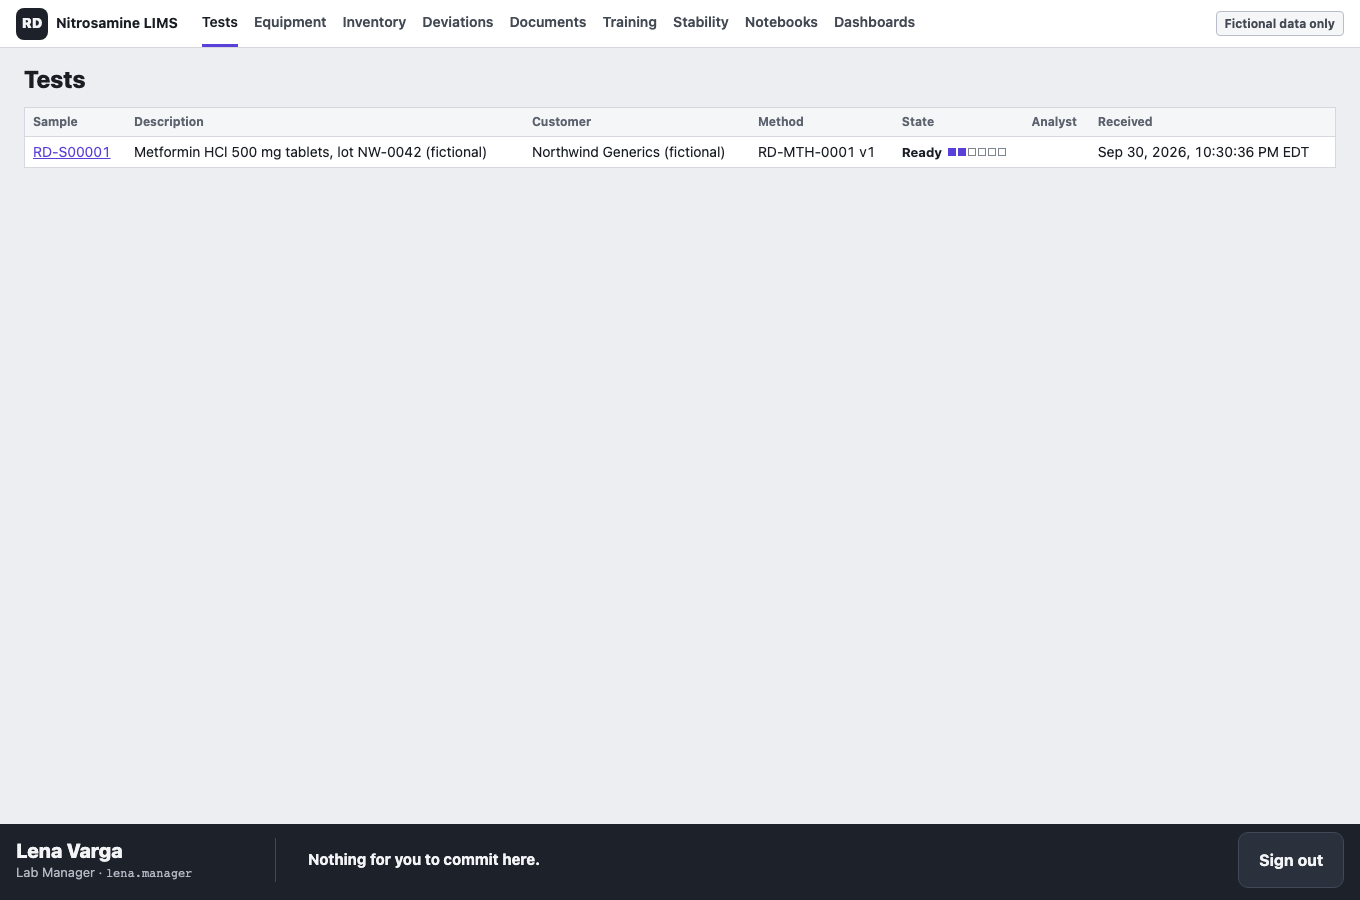
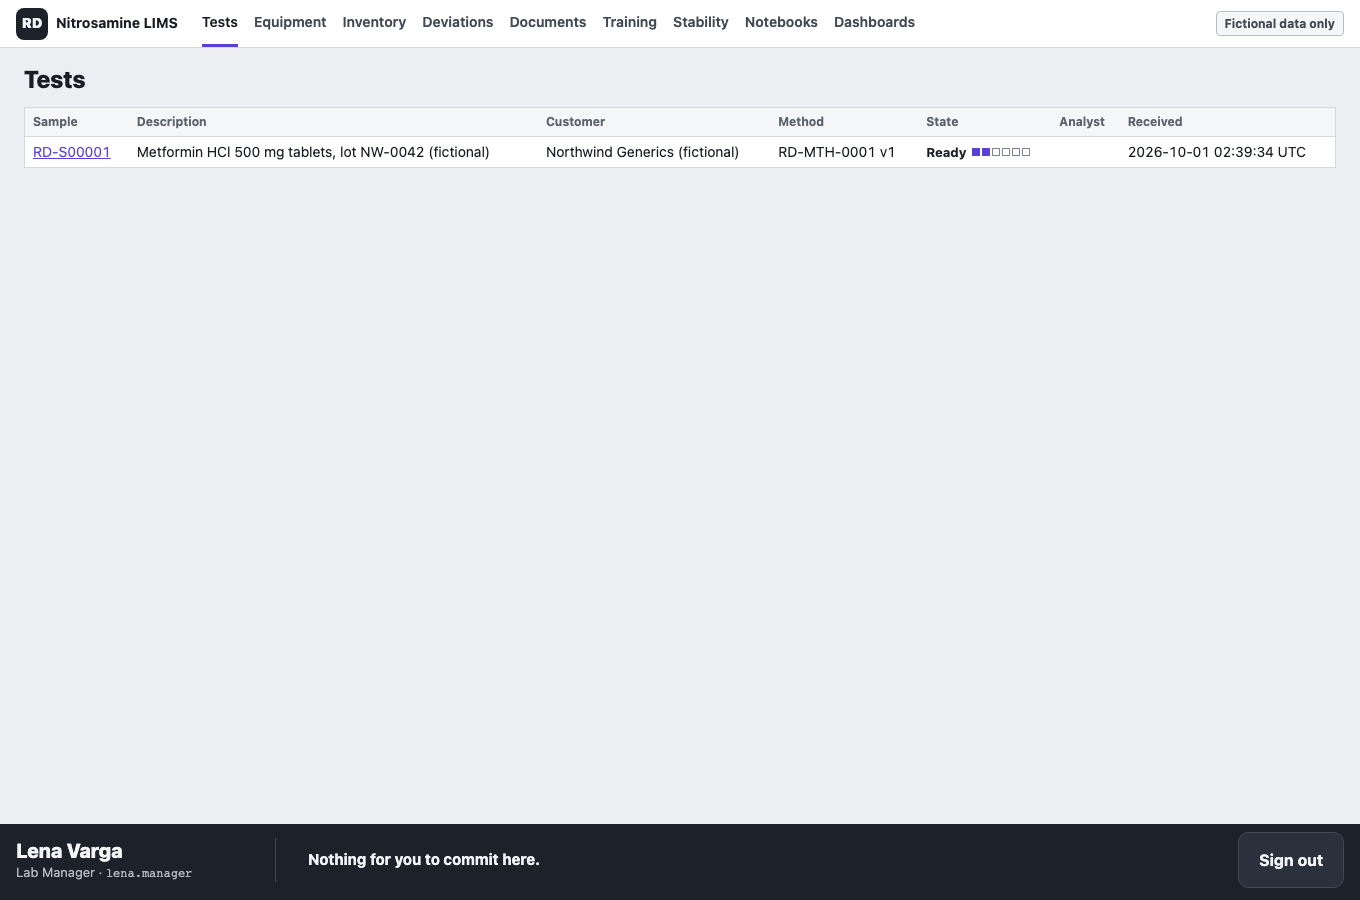
Print every time in UTC and state the demo limits on the Test Report, signature sheet and chain check

Changed region(s): [[0.4015, 0.1244, 0.7412, 0.1867], [0.0926, 0.1244, 0.3706, 0.1867], [0.7721, 0.1244, 0.9574, 0.1867]]

diff --git a/apps/web/src/report.tsx b/apps/web/src/report.tsx
@@ -1,5 +1,5 @@
 import { api, type Me, type TestReport, useApi } from './api.ts';
-import { type RailAction, Shell } from './rail.tsx';
+import { demoSigning, type RailAction, Shell } from './rail.tsx';
 import { Signatures, time } from './tests.tsx';
 
 const verifyAction: RailAction = {
@@ -8,9 +8,10 @@ const verifyAction: RailAction = {
   fields: [],
   signs: null,
   async run() {
-    const { lab, company } = await api<{ lab: string | null; company: string | null }>('/api/audit/verify', {});
-    const chain = (name: string, broken: string | null) => broken === null ? `${name} chain intact` : `${name} chain BROKEN at entry ${broken}`;
-    return `Recomputed at ${time(new Date().toISOString())}: ${chain('Lab', lab)}, ${chain('company', company)}.`;
+    const { at, lab, company } = await api<{ at: string; lab: string | null; company: string | null }>('/api/audit/verify', {});
+    const chain = (name: string, broken: string | null) =>
+      broken === null ? `${name} chain internally consistent` : `${name} chain BROKEN at entry ${broken}`;
+    return `Recomputed at ${time(at)}: ${chain('Lab', lab)}, ${chain('company', company)}. Not anchored off-server (demo).`;
   },
 };
 
@@ -30,7 +31,7 @@ export function ReportPage({ me, id }: { me: Me; id: string }) {
             <dt>Sample</dt><dd>{data.test.sampleNumber}, {data.test.description}</dd>
             <dt>Received</dt><dd>{time(data.test.receivedAt)}</dd>
             <dt>Method</dt><dd>{data.test.methodCode} v{data.test.methodVersion}, {data.test.methodTitle}</dd>
-            <dt>GxP Class</dt><dd>{data.test.gxpClass}</dd>
+            <dt>GxP Class</dt><dd>{data.test.gxpClass} (demo: GMP controls are not built)</dd>
           </dl>
           <h2>Result</h2>
           {data.result && (
@@ -41,6 +42,7 @@ export function ReportPage({ me, id }: { me: Me; id: string }) {
           )}
           <p className="muted">Printed as entered. No Specification or limit is applied in this version.</p>
           <h2>Signatures</h2>
+          <p className="fict">{demoSigning}</p>
           <Signatures rows={data.signatures} />
         </article>
       )}

diff --git a/apps/web/e2e/chain.spec.ts b/apps/web/e2e/chain.spec.ts
@@ -60,7 +60,7 @@ test('the whole chain through the UI, ending in a Test Report with three Signatu
   await openTheTest(page);
   await page.getByRole('button', { name: 'Enter Result' }).click();
   const result = { Analyte: 'NDMA', 'Result as written': '0.0300', Unit: 'ppm', 'Injection sequence': 'SEQ-2026-0042',
-    'Notebook reference': 'RD-NB-0007-012', 'Performed on': '2026-09-30' };
+    'Notebook reference': 'RD-NB-0007-012', 'Performed on': new Date().toISOString().slice(0, 10) };
   for (const [label, value] of Object.entries(result)) await page.getByLabel(label, { exact: true }).fill(value);
   await page.getByLabel(/Password/).fill(DEMO_PASSWORD);
   await shot(page, 'test-signature-sheet');
@@ -92,6 +92,7 @@ test('the whole chain through the UI, ending in a Test Report with three Signatu
     await expect(page.getByRole('row', { name: new RegExp(`^${meaning} ${signer}`) })).toBeVisible();
   }
   await page.getByRole('button', { name: 'Verify Audit Trail' }).click();
-  await railSays(page, 'Lab chain intact, company chain intact');
+  await railSays(page, 'Lab chain internally consistent, company chain internally consistent. Not anchored off-server (demo).');
+  await railSays(page, /Recomputed at \d{4}-\d\d-\d\d \d\d:\d\d:\d\d UTC:/);
   await shot(page, 'test-report');
 });

diff --git a/apps/web/src/rail.tsx b/apps/web/src/rail.tsx
@@ -36,6 +36,7 @@ export const meaningStatement: Record<SignedMeaning, string> = {
   Released: 'I release this Test Report to the Customer.',
 };
 
+export const demoSigning = 'Demo: accounts share one password, and a signing re-enters the password only.';
 const stateOrder = Object.values(steps).map((s) => s.to);
 export const words = (name: string) => name.replace(/([a-z])([A-Z])/g, '$1 $2');
 
@@ -164,6 +165,7 @@ function Rail({ me, action }: { me: Me; action: RailAction | null }) {
                   <label>Password (type it again to sign)
                     <input type="password" required autoComplete="off" value={password} onChange={(e) => setPassword(e.target.value)} />
                   </label>
+                  <p className="fict">{demoSigning}</p>
                 </section>
               </>
             )}

diff --git a/apps/web/src/tests.tsx b/apps/web/src/tests.tsx
@@ -2,10 +2,7 @@ import { steps } from '@lims/domain';
 import { type AuditEntry, type Me, type Row, type Signature, type TestRow, type TestView, useApi } from './api.ts';
 import { Shell, Status, stepAction } from './rail.tsx';
 
-const clock: Intl.DateTimeFormatOptions = {
-  year: 'numeric', month: 'short', day: 'numeric', hour: '2-digit', minute: '2-digit', second: '2-digit', timeZoneName: 'short',
-};
-export const time = (iso: string | null) => (iso ? new Date(iso).toLocaleString(undefined, clock) : '');
+export const time = (iso: string | null) => (iso ? `${new Date(iso).toISOString().slice(0, 19).replace('T', ' ')} UTC` : '');
 const testLine = (t: TestRow) => `Test of ${t.methodCode} v${t.methodVersion} on Sample ${t.sampleNumber}`;
 
 export function Worklist({ me }: { me: Me }) {

diff --git a/apps/web/src/app.css b/apps/web/src/app.css
@@ -32,6 +32,7 @@ p { margin: 0 0 6px; }
 .top nav a { display: flex; align-items: center; color: var(--ink-2); font-weight: 600; text-decoration: none; border-bottom: 3px solid transparent; }
 .top nav a.active { color: var(--ink); border-bottom-color: var(--act); }
 .fict { margin-left: auto; font-size: 12px; font-weight: 700; color: var(--ink-2); background: var(--sheet-2); border: 1px solid var(--line-2); border-radius: 4px; padding: 4px 8px; white-space: nowrap; }
+p.fict { display: inline-block; margin-left: 0; white-space: normal; }
 .plane { overflow: auto; padding: 16px 24px; }
 
 table { border-collapse: collapse; width: 100%; background: var(--sheet); border: 1px solid var(--line); }
